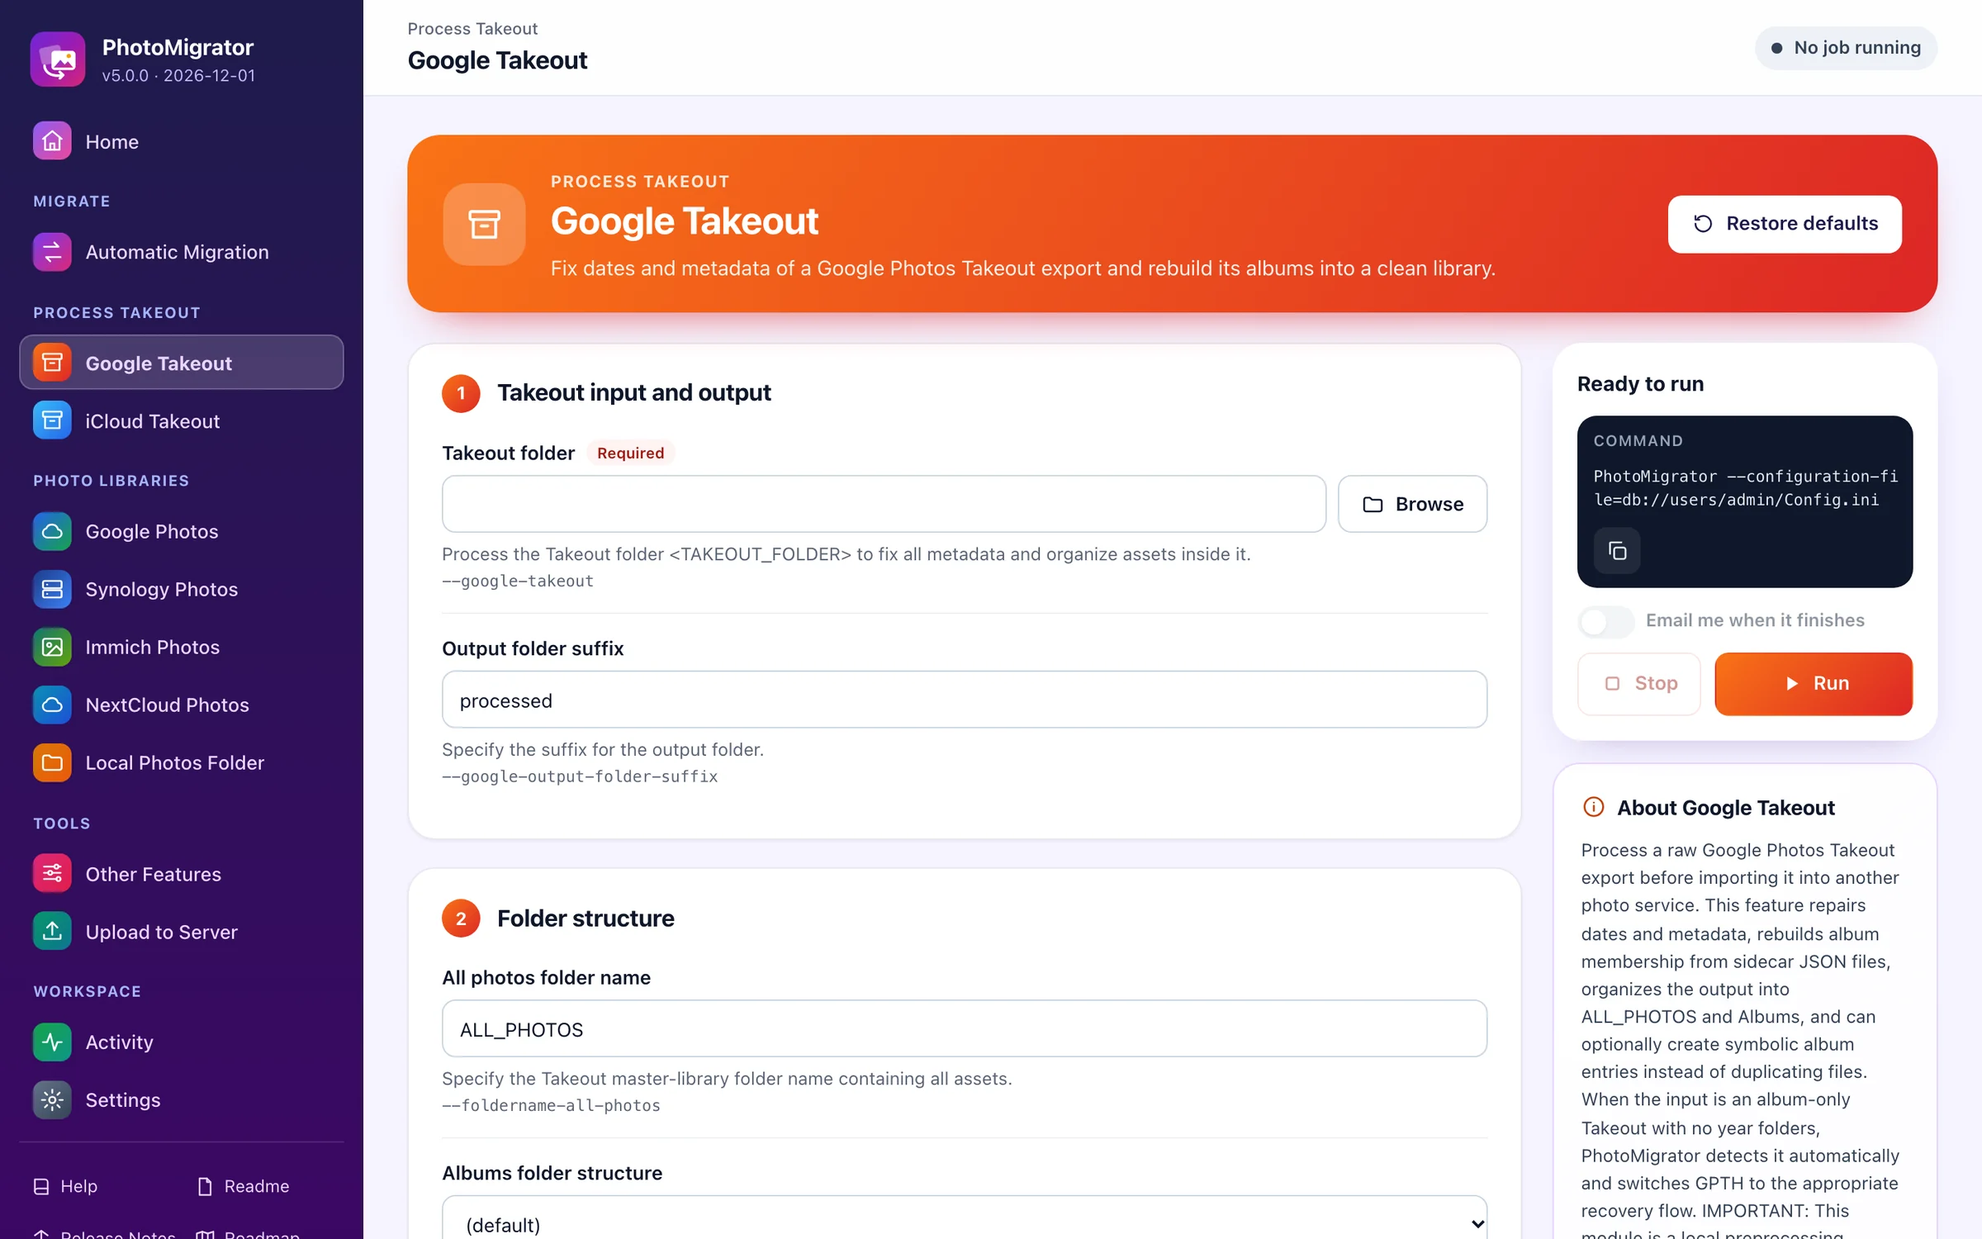
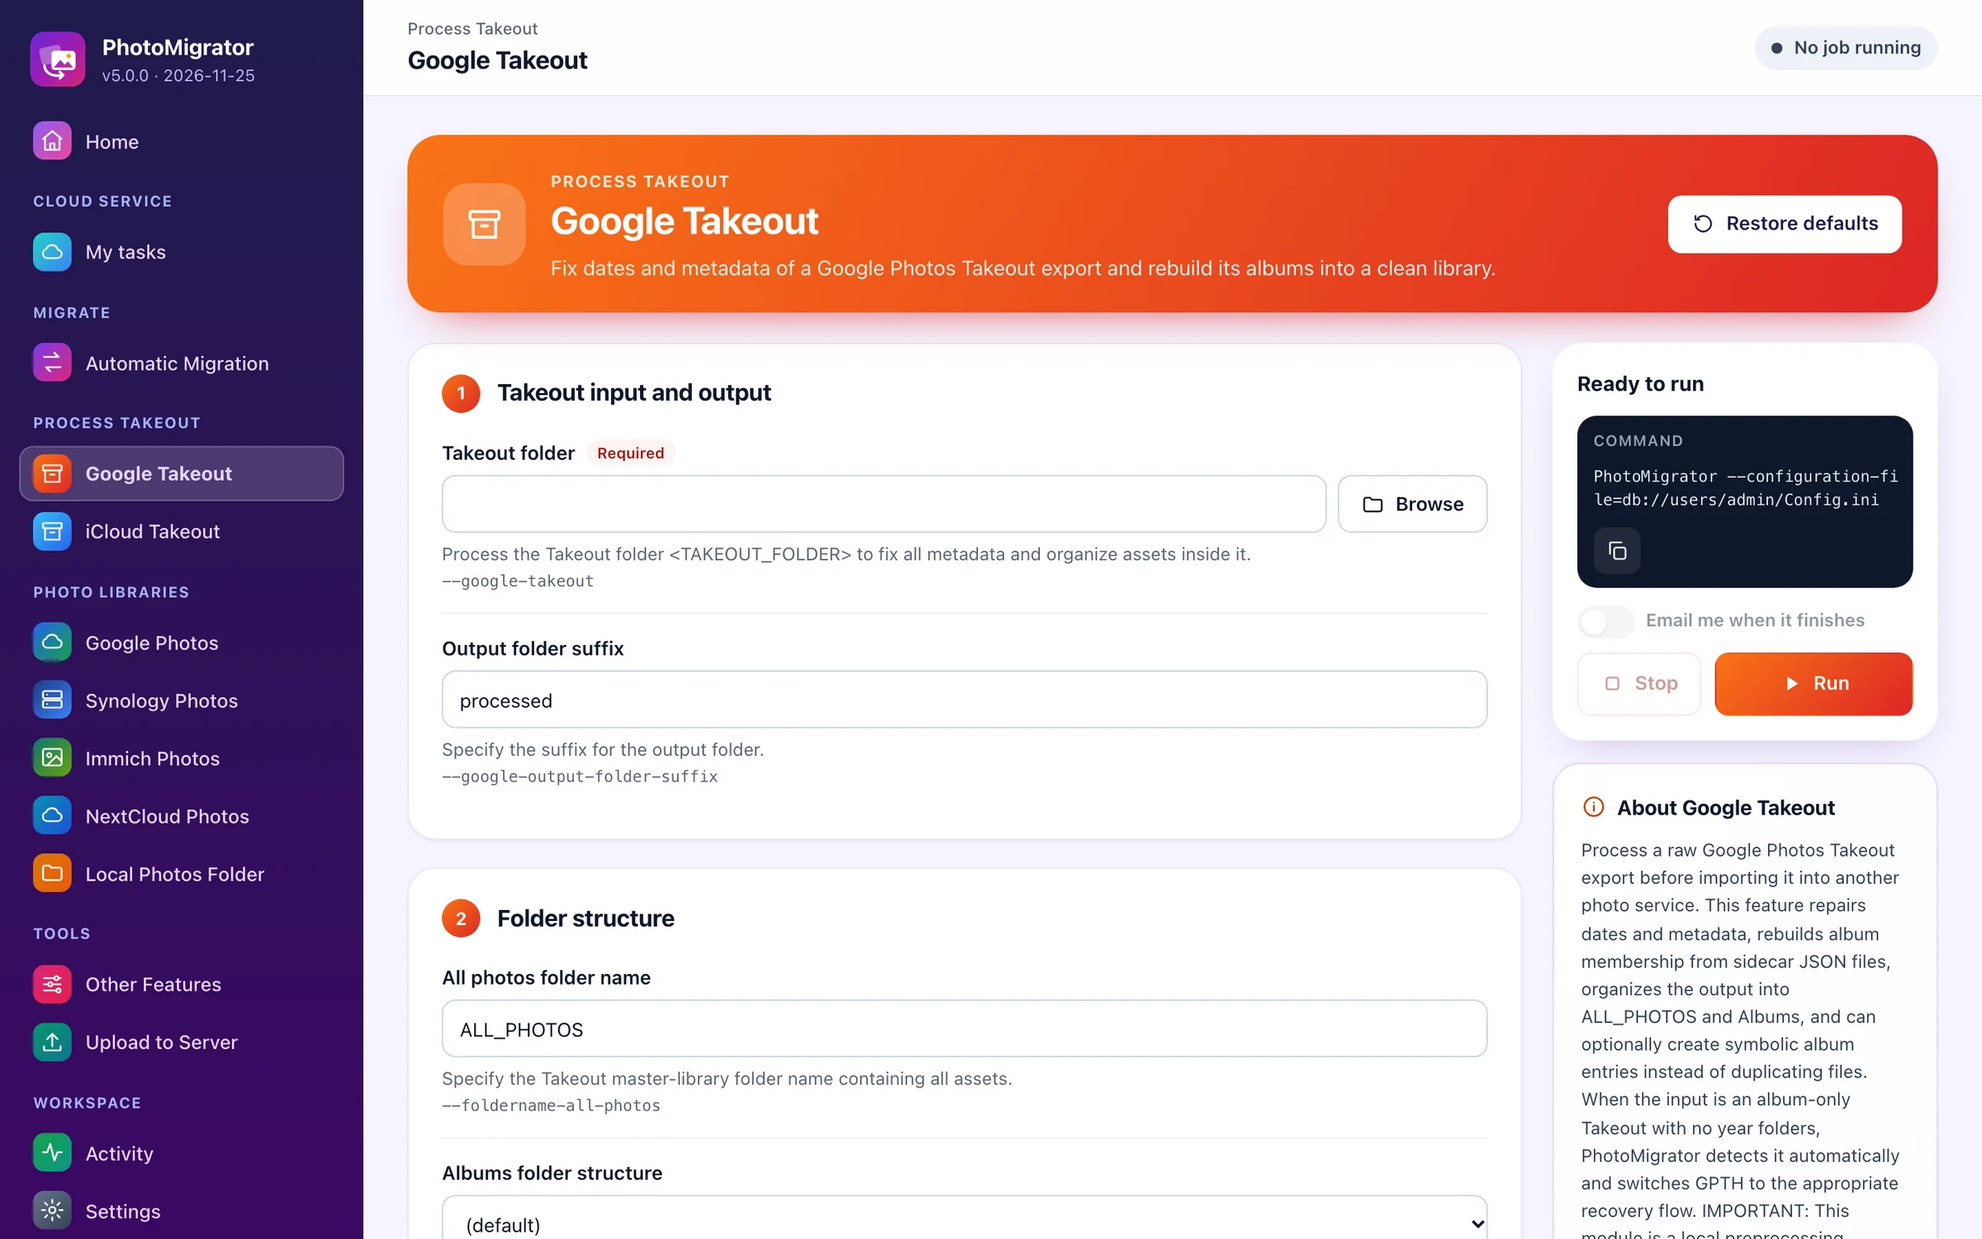
Show the website screenshots in the chosen language
tools/CaptureLandingMedia.py captures the Web Interface screenshots once per
language (<name>-<lang>.webp; English keeps <name>.webp) and the website
serves the ones of the chosen language, English when there are none.

Changed region(s): [[0.0, 0.2453, 0.1875, 1.0], [0.0, 0.1533, 0.125, 0.2147]]

diff --git a/tools/CaptureLandingMedia.py b/tools/CaptureLandingMedia.py
@@ -17,6 +17,11 @@ show configured accounts, and runs a list-only Find Duplicates job on a small sa
 created inside that user's first data root (its CSV report and log are written where that
 instance writes job outputs). Local paths shown in the Activity log are replaced by the
 Docker paths of the Web Interface before the screenshot is taken.
+
+The Web Interface screenshots are taken once per language of the Web Interface (lang/): English ones are
+`<name>.webp` and the others `<name>-<lang>.webp`. The website shows the ones of the language chosen with its
+picker (English when a language has none). `--langs es,fr` captures only some languages. The language of the
+signed-in test user is restored at the end. The Terminal TUI is not translated, so it has a single image.
 """
 
 from __future__ import annotations
@@ -30,9 +35,12 @@ from pathlib import Path
 
 from PIL import Image
 from playwright.sync_api import Page, sync_playwright
+from playwright.sync_api import TimeoutError as PlaywrightTimeoutError
 
 ROOT = Path(__file__).resolve().parents[1]
 MEDIA_DIR = ROOT / "landing" / "media"
+sys.path.insert(0, str(ROOT))
+from lang import i18n  # noqa: E402
 
 SAMPLE_CREDENTIALS = {
     "Synology Photos": {"SYNOLOGY_URL": "http://192.168.1.11:5000", "SYNOLOGY_USERNAME_1": "family", "SYNOLOGY_PASSWORD_1": "sample-password"},
@@ -96,88 +104,117 @@ def open_features(page: Page, base_url: str, module: str, action: str | None = N
     page.evaluate("window.scrollTo(0, 0)")
 
 
-def capture_web(base_url: str, user: str, password: str) -> None:
+def set_language(page: Page, lang: str) -> None:
+    page.evaluate("async (code) => { await fetch('/api/lang', {method: 'POST', headers: {'Content-Type': 'application/json'}, body: JSON.stringify({lang: code})}); }", lang)
+
+
+def capture_web(base_url: str, user: str, password: str, langs: list[str]) -> None:
     with sync_playwright() as playwright:
         browser = playwright.chromium.launch()
         desktop = browser.new_context(viewport={"width": 1440, "height": 900}, device_scale_factor=2)
         page = desktop.new_page()
         login(page, base_url, user, password)
         store_sample_credentials(page)
-
-        page.goto(f"{base_url}/features?view=home&manual_navigation=1")
-        wait_ready(page)
-        save_webp(page.screenshot(), "web-home", width=2400)
-
-        open_features(page, base_url, "automatic_migration")
-        page.evaluate("""() => {
-            uiState.migration_endpoints = {source: {kind: 'synology', account: '1', path: ''}, target: {kind: 'immich', account: '1', path: ''}};
-            renderAll();
-        }""")
-        page.wait_for_timeout(500)
-        save_webp(page.screenshot(), "web-migration", width=2400)
-
-        open_features(page, base_url, "immich_photos", "remove-duplicates-assets")
-        save_webp(page.screenshot(), "web-immich", width=2400)
-
-        open_features(page, base_url, "google_takeout")
-        save_webp(page.screenshot(), "web-takeout", width=2400)
-
-        page.evaluate("() => { document.body.setAttribute('data-theme', 'dark'); }")
-        open_features(page, base_url, "immich_photos", "upload-albums")
-        page.evaluate("() => { document.body.setAttribute('data-theme', 'dark'); }")
-        page.wait_for_timeout(300)
-        save_webp(page.screenshot(), "web-dark", width=2400)
-
-        page.goto(f"{base_url}/configuration?manual_navigation=1")
-        wait_ready(page)
-        page.evaluate("() => { uiState.config_active_section = 'Immich Photos'; activeConfigSection = 'Immich Photos'; renderConfigSectionTabs(); renderActiveConfigSection(); }")
-        page.wait_for_timeout(400)
-        save_webp(page.screenshot(), "web-settings", width=2400)
-
-        # A short real job so that Activity shows a finished run with its log. The sample folders
-        # live inside the first data root of the signed-in test user, as the Web Interface requires.
-        scratch_folder = Path(page.evaluate("allowedRoots[0]")) / "landing-sample"
-        first = scratch_folder / "a"
-        second = scratch_folder / "b"
-        first.mkdir(parents=True, exist_ok=True)
-        second.mkdir(parents=True, exist_ok=True)
-        (first / "IMG_0001.jpg").write_text("sample", encoding="utf-8")
-        (second / "IMG_0001.jpg").write_text("sample", encoding="utf-8")
-        (second / "IMG_0002.jpg").write_text("other", encoding="utf-8")
-        open_features(page, base_url, "standalone_features", "find-duplicates")
-        page.fill('input[data-folder-multi="1"]', f"{first}, {second}")
-        page.wait_for_timeout(400)
-        page.click("#run-btn")
-        page.wait_for_url("**/output**")
-        page.wait_for_selector("#job-input-yes:not([disabled])", timeout=30000)
-        page.click("#job-input-yes")
-        deadline = time.time() + 40
-        while time.time() < deadline and "Finished" not in (page.text_content("#topbar-status-text") or ""):
-            page.wait_for_timeout(500)
-        page.wait_for_timeout(800)
-        # Local machine paths must not be published: show them as the Docker paths of the Web Interface.
-        replacements = [[str(scratch_folder.parent), "/app/data"], [str(ROOT), "/app"]]
-        page.evaluate(
-            """(pairs) => {
-                const walker = document.createTreeWalker(document.body, NodeFilter.SHOW_TEXT);
-                let node;
-                while ((node = walker.nextNode())) {
-                    let text = node.nodeValue;
-                    pairs.forEach(([from, to]) => { text = text.split(from).join(to); });
-                    if (text !== node.nodeValue) node.nodeValue = text;
-                }
-            }""",
-            replacements,
-        )
-        save_webp(page.screenshot(), "web-activity", width=2400)
-
-        mobile = browser.new_context(viewport={"width": 390, "height": 844}, device_scale_factor=3, is_mobile=True, has_touch=True)
-        phone = mobile.new_page()
-        login(phone, base_url, user, password)
-        phone.goto(f"{base_url}/features?view=home&manual_navigation=1")
-        wait_ready(phone)
-        save_webp(phone.screenshot(), "web-phone", width=1170)
+        original_lang = page.evaluate("window.PM_LANG || 'en'")
+        try:
+            for lang in langs:
+                print(f"Language: {lang}")
+                set_language(page, lang)
+                for attempt in range(1, 4):  # a busy local instance can be slow to load a page
+                    try:
+                        # The phone screenshot signs in again, which can end the desktop session.
+                        if lang != langs[0] or attempt > 1:
+                            login(page, base_url, user, password)
+                            set_language(page, lang)
+                        capture_web_screens(browser, page, base_url, user, password, "" if lang == i18n.DEFAULT else f"-{lang}")
+                        break
+                    except PlaywrightTimeoutError:
+                        if attempt == 3:
+                            raise
+                        print(f"  timeout on {page.url}, retrying {lang} ({attempt}/3)")
+        finally:
+            set_language(page, original_lang)
         browser.close()
+
+
+def capture_web_screens(browser, page: Page, base_url: str, user: str, password: str, suffix: str) -> None:
+    """The Web Interface screenshots in the current language of the signed-in user, saved as <name><suffix>.webp."""
+    page.goto(f"{base_url}/features?view=home&manual_navigation=1")
+    wait_ready(page)
+    save_webp(page.screenshot(), "web-home" + suffix, width=2400)
+
+    open_features(page, base_url, "automatic_migration")
+    page.evaluate("""() => {
+        uiState.migration_endpoints = {source: {kind: 'synology', account: '1', path: ''}, target: {kind: 'immich', account: '1', path: ''}};
+        renderAll();
+    }""")
+    page.wait_for_timeout(500)
+    save_webp(page.screenshot(), "web-migration" + suffix, width=2400)
+
+    open_features(page, base_url, "immich_photos", "remove-duplicates-assets")
+    save_webp(page.screenshot(), "web-immich" + suffix, width=2400)
+
+    open_features(page, base_url, "google_takeout")
+    save_webp(page.screenshot(), "web-takeout" + suffix, width=2400)
+
+    page.evaluate("() => { document.body.setAttribute('data-theme', 'dark'); }")
+    open_features(page, base_url, "immich_photos", "upload-albums")
+    page.evaluate("() => { document.body.setAttribute('data-theme', 'dark'); }")
+    page.wait_for_timeout(300)
+    save_webp(page.screenshot(), "web-dark" + suffix, width=2400)
+
+    page.goto(f"{base_url}/configuration?manual_navigation=1")
+    wait_ready(page)
+    page.evaluate("() => { uiState.config_active_section = 'Immich Photos'; activeConfigSection = 'Immich Photos'; renderConfigSectionTabs(); renderActiveConfigSection(); }")
+    page.wait_for_timeout(400)
+    save_webp(page.screenshot(), "web-settings" + suffix, width=2400)
+
+    # A short real job so that Activity shows a finished run with its log. The sample folders
+    # live inside the first data root of the signed-in test user, as the Web Interface requires.
+    scratch_folder = Path(page.evaluate("allowedRoots[0]")) / "landing-sample"
+    first = scratch_folder / "a"
+    second = scratch_folder / "b"
+    first.mkdir(parents=True, exist_ok=True)
+    second.mkdir(parents=True, exist_ok=True)
+    (first / "IMG_0001.jpg").write_text("sample", encoding="utf-8")
+    (second / "IMG_0001.jpg").write_text("sample", encoding="utf-8")
+    (second / "IMG_0002.jpg").write_text("other", encoding="utf-8")
+    open_features(page, base_url, "standalone_features", "find-duplicates")
+    page.fill('input[data-folder-multi="1"]', f"{first}, {second}")
+    page.wait_for_timeout(400)
+    page.click("#run-btn")
+    page.wait_for_url("**/output**")
+    page.wait_for_selector("#job-input-yes:not([disabled])", timeout=30000)
+    page.click("#job-input-yes")
+    # Wait for the job through the API (the status text is translated): a running job would redirect the next
+    # screenshots of the following language to Activity.
+    deadline = time.time() + 60
+    while time.time() < deadline and page.evaluate("fetch('/api/jobs/_active').then((r) => r.json()).then((d) => d.job_id)"):
+        page.wait_for_timeout(500)
+    page.wait_for_timeout(800)
+    # Local machine paths must not be published: show them as the Docker paths of the Web Interface.
+    replacements = [[str(scratch_folder.parent), "/app/data"], [str(ROOT), "/app"]]
+    page.evaluate(
+        """(pairs) => {
+            const walker = document.createTreeWalker(document.body, NodeFilter.SHOW_TEXT);
+            let node;
+            while ((node = walker.nextNode())) {
+                let text = node.nodeValue;
+                pairs.forEach(([from, to]) => { text = text.split(from).join(to); });
+                if (text !== node.nodeValue) node.nodeValue = text;
+            }
+        }""",
+        replacements,
+    )
+    save_webp(page.screenshot(), "web-activity" + suffix, width=2400)
+
+    mobile = browser.new_context(viewport={"width": 390, "height": 844}, device_scale_factor=3, is_mobile=True, has_touch=True)
+    phone = mobile.new_page()
+    login(phone, base_url, user, password)
+    phone.goto(f"{base_url}/features?view=home&manual_navigation=1")
+    wait_ready(phone)
+    save_webp(phone.screenshot(), "web-phone" + suffix, width=1170)
+    mobile.close()
 
 
 def capture_tui() -> None:
@@ -208,10 +245,13 @@ def main() -> int:
     parser.add_argument("--user", default="admin", help="Test user of that instance")
     parser.add_argument("--password", required=True, help="Password of the test user")
     parser.add_argument("--only", choices=["web", "tui"], help="Capture only one group")
+    parser.add_argument("--langs", default=",".join(i18n.LANGS),
+                        help="Comma-separated languages of the Web Interface screenshots (default: all)")
     args = parser.parse_args()
     print(f"Writing landing media to {MEDIA_DIR}")
     if args.only in (None, "web"):
-        capture_web(args.url.rstrip("/"), args.user, args.password)
+        langs = [code for code in (item.strip() for item in args.langs.split(",")) if code in i18n.LANGS]
+        capture_web(args.url.rstrip("/"), args.user, args.password, langs)
     if args.only in (None, "tui"):
         capture_tui()
     return 0

diff --git a/src/web_interface/app.py b/src/web_interface/app.py
@@ -3666,6 +3666,12 @@ def _landing_page_html(request: Request | None = None) -> str | None:
         f'<script src="/lang/i18n.js?v={js_stamp}"></script>\n'
     )
     page = page.replace('<html lang="en">', f'<html lang="{lang}">', 1)
+    if lang != ui_i18n.DEFAULT:
+        # Screenshots of the Web Interface in the chosen language (tools/CaptureLandingMedia.py), when there are.
+        def localized(match: re.Match) -> str:
+            name = f"{match.group(1)}-{lang}.webp"
+            return f"/landing/media/{name}" if (LANDING_ROOT / "media" / name).is_file() else match.group(0)
+        page = re.sub(r"/landing/media/(web-[a-z0-9-]+?)\.webp", localized, page)
     return page.replace("</head>", head + "</head>", 1)
 
 

diff --git a/tests/test_web_service.py b/tests/test_web_service.py
@@ -250,6 +250,8 @@ class TestCloudService(unittest.TestCase):
         page = self.client.get("/").text
         self.assertIn('<html lang="es">', page)
         self.assertIn("/api/i18n/es.js", page)
+        self.assertIn("/landing/media/web-home-es.webp", page)  # screenshots in the chosen language
+        self.assertNotIn("/landing/media/web-home.webp", page)
         catalog = self.client.get("/api/i18n/es.js").text
         self.assertIn("Read the documentation", catalog)
 

diff --git a/CHANGELOG.md b/CHANGELOG.md
@@ -8,7 +8,7 @@
 ### Release Date: 2026-11-25
   
 #### 🌟 New Features:
-  - Added a marketing landing page in `landing/` (static HTML with screenshots of the new interfaces, ready for GitHub Pages or any static host) and `tools/CaptureLandingMedia.py` to regenerate its screenshots from a local test instance of the Web Interface. The Web Interface serves it at the site root `/` (included in the Docker image; `/landing` redirects there), the app opens at `/app/` (sign-in) and the login page links back to the website with a `Website` button and the logo. A language picker in its header (English by default) shows the website in any of the 9 languages of the Web Interface and keeps the choice for the app. The documentation viewer of the Web Interface (help with its navigation panel, README and release notes) is public, so the website links to it instead of GitHub; it is shown in English without partial interface translations, so browsers offer to translate the whole page into the reader's language.
+  - Added a marketing landing page in `landing/` (static HTML with screenshots of the new interfaces, ready for GitHub Pages or any static host) and `tools/CaptureLandingMedia.py` to regenerate its screenshots from a local test instance of the Web Interface. The Web Interface serves it at the site root `/` (included in the Docker image; `/landing` redirects there), the app opens at `/app/` (sign-in) and the login page links back to the website with a `Website` button and the logo. A language picker in its header (English by default) shows the website in any of the 9 languages of the Web Interface, with the screenshots of the Web Interface in that language (`tools/CaptureLandingMedia.py` captures them for every language), and keeps the choice for the app. The documentation viewer of the Web Interface (help with its navigation panel, README and release notes) is public, so the website links to it instead of GitHub; it is shown in English without partial interface translations, so browsers offer to translate the whole page into the reader's language.
   - Added account emails and email notifications to the Web Interface. Every account now has an email (required when an admin creates an account, editable from the users list) and users can sign in with their username or email. `Request an account` on the login page (`PHOTOMIGRATOR_WEB_ACCOUNT_REQUESTS`, enabled by default) creates an inactive account that admins approve or reject from the Administration Panel. With SMTP configured (`SMTP_*` variables or the new `Email (SMTP)` section of the Administration Panel, with a test email), PhotoMigrator emails admins about new requests and users when their request is received, approved or rejected, their account is created or disabled, their password changes, and when a task finishes if they turned on `Email me when it finishes` in the run bar. `PHOTOMIGRATOR_WEB_PUBLIC_URL` sets the address used in email links, and links to pages that need an account open the sign-in page first and then the linked page. Emails use the language of each account: the one the user chooses, or the one of their browser when they first sign in.
   - Added languages to the Web Interface: English (source), Español, Català, Français, Italiano, Deutsch, Português, Nederlands, 中文 and 日本語. Each user picks the language from the login page, the sidebar or the Administration Panel (saved in the account; the browser language is used by default), and emails are sent in the language of each recipient. Translations are gettext catalogs in `lang/` (`messages.pot` is the English template, `lang/<code>.po` one catalog per language, `lang/README.md` explains how to contribute), and `tools/CollectUiTexts.py` with `tools/UpdateTranslationTemplate.py` refresh them after interface changes.
   - Added an optional Cloud service to the Web Interface (off by default; self-hosted installations keep every feature free). Users run a Takeout → cloud migration, a Takeout processing with download, or a cloud → cloud migration on the server from `Cloud service > My tasks`: resumable browser uploads or import from Dropbox/OneDrive of the Takeout ZIP files, a quote after checking that the ZIP files contain photos or videos, measuring the data and testing the destination, Stripe Checkout card payments (5 € minimum + 5 cents per GB, configurable; administrators never pay; no payment without Stripe keys; payments are tagged and shown as `PHOTOMIGRATOR` on the card statement, and the webhook ignores events of other businesses, so a Stripe account can be shared), a shared queue with estimated start and duration, live progress in Activity, resumable downloads in ZIP parts of up to 50 GB for 7 days with a shared speed limit, emails at every step (and an email to the operator, with a link to the Administration Panel, when a user creates a task), a full refund when a task fails (a task that delivers no photo or video counts as failed and is never charged) or is canceled before it starts, and per-task folders whose encrypted credentials and data are deleted when the task ends. Admins configure it in the new `Cloud service` tab of the Administration Panel, which also lists the tasks, queue, revenue and refunds. The website announces the service with its security measures and a price calculator, and `/terms` and `/privacy` hold its terms of service and privacy policy.
